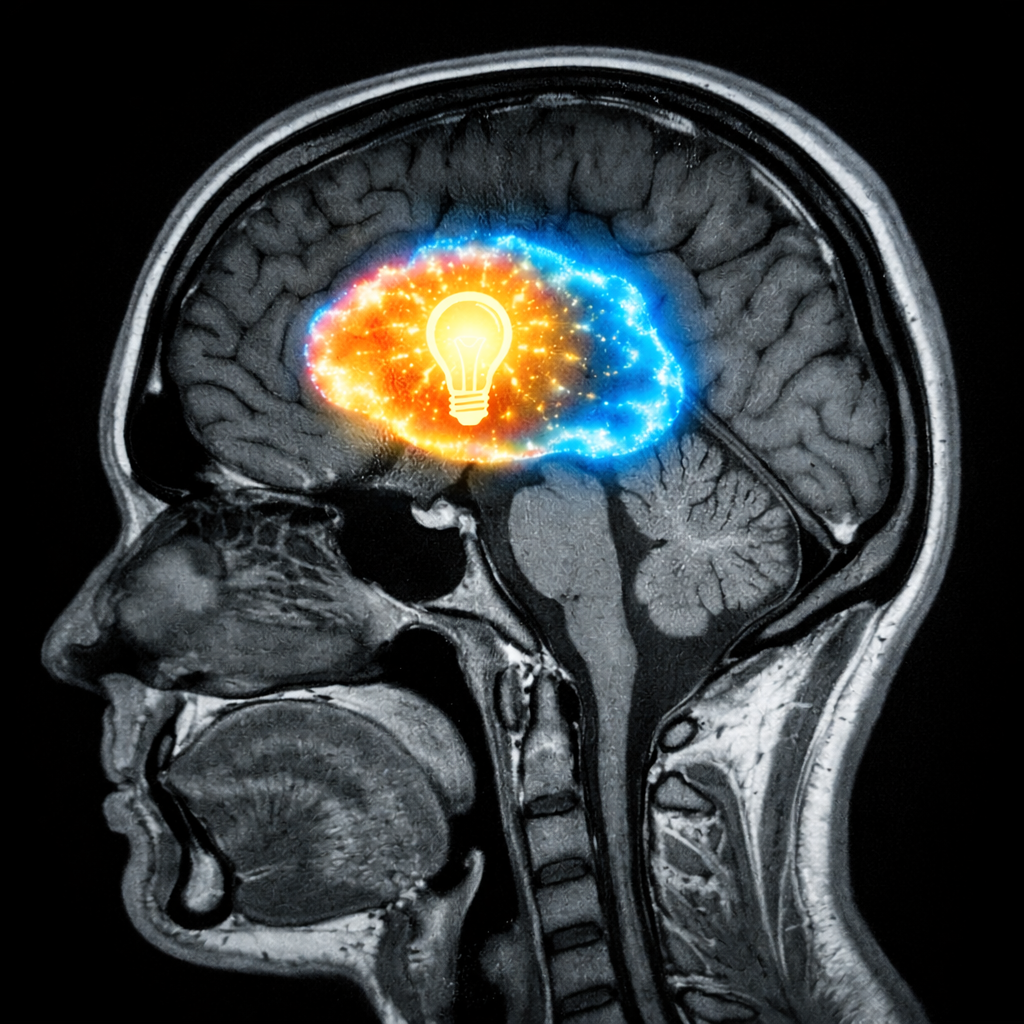
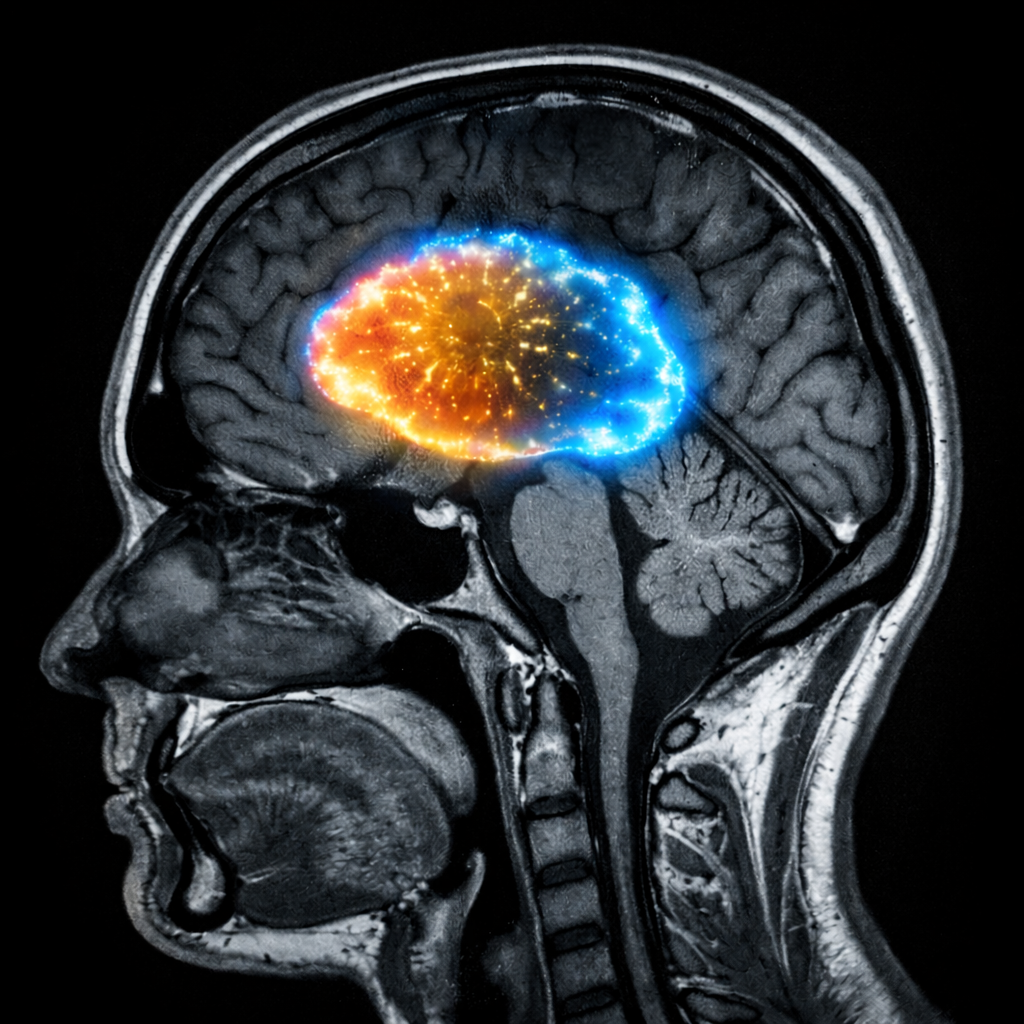
feat: refine website content and visual polish

Changed region(s): [[0.0312, 0.0312, 0.9375, 1.0], [0.6875, 0.1875, 0.7188, 0.2188]]

diff --git a/_sass/_navbar.scss b/_sass/_navbar.scss
@@ -135,8 +135,6 @@
 
     &:hover {
       color: var(--global-hover-color);
-      background: rgba(255, 255, 255, 0.32);
-      box-shadow: inset 0 0 0 1px rgba(0, 150, 199, 0.28);
     }
 
     &:hover::before {

diff --git a/assets/css/main.scss b/assets/css/main.scss
@@ -111,7 +111,7 @@
     padding: 0.45rem 0.7rem;
     font-size: 0.94rem;
     text-align: left;
-    background: rgba(255, 255, 255, 0.16);
+    background: transparent;
   }
 
   .navbar-nav .toggle-container {

diff --git a/_pages/publications.md b/_pages/publications.md
@@ -21,8 +21,8 @@ _styles: |
   }
 
   .pub-tabs-wrap {
-    background: linear-gradient(135deg, rgba(0, 150, 199, 0.1) 0%, rgba(0, 150, 199, 0.03) 100%);
-    border: 1px solid rgba(0, 150, 199, 0.18);
+    background: linear-gradient(135deg, rgba(0, 150, 199, 0.16) 0%, rgba(0, 150, 199, 0.08) 100%);
+    border: 1px solid rgba(0, 150, 199, 0.28);
     border-radius: 20px;
     padding: 0.8rem;
     margin: 1rem 0 1.1rem;
@@ -34,13 +34,14 @@ _styles: |
     font-weight: 700;
     margin: 0 0.3rem;
     color: var(--global-text-color);
-    border: 1px solid transparent;
+    background: rgba(0, 150, 199, 0.12);
+    border: 1px solid rgba(0, 150, 199, 0.24);
     transition: all 0.2s ease;
   }
 
   .pub-tabs-wrap .nav-link:hover {
-    border-color: rgba(0, 150, 199, 0.35);
-    background: rgba(0, 150, 199, 0.08);
+    border-color: rgba(0, 150, 199, 0.5);
+    background: rgba(0, 150, 199, 0.18);
   }
 
   .pub-tabs-wrap .nav-link.active {
@@ -82,6 +83,8 @@ _styles: |
 
 <!-- _pages/publications.md -->
 
+<div class="glass-section pub-page-shell">
+  <div class="glass-section-body">
 <p class="pub-page-note">For a full list, you can visit <a href="https://scholar.google.com/citations?user=tAOr0VwAAAAJ&hl=en" target="_blank" rel="noopener noreferrer">Google Scholar</a> or <a href="https://pubmed.ncbi.nlm.nih.gov/?term=eddy+solomon&sort=date&utm_source=Pubmed" target="_blank" rel="noopener noreferrer">PubMed</a>.</p>
 
 <!-- Bibsearch Feature -->
@@ -109,6 +112,8 @@ _styles: |
     <div class="tab-pane fade" id="peer-pane" role="tabpanel" aria-labelledby="peer-tab">
       {% bibliography --query @inproceedings{*} --group_by year --sort_by year --order descending %}
     </div>
+  </div>
+</div>
   </div>
 </div>
 

diff --git a/_pages/open-source.md b/_pages/open-source.md
@@ -10,8 +10,8 @@ fluid: true
 
 <style>
   .open-source-tabs-wrap {
-    background: linear-gradient(135deg, rgba(0, 150, 199, 0.1) 0%, rgba(0, 150, 199, 0.03) 100%);
-    border: 1px solid rgba(0, 150, 199, 0.18);
+    background: linear-gradient(135deg, rgba(0, 150, 199, 0.16) 0%, rgba(0, 150, 199, 0.08) 100%);
+    border: 1px solid rgba(0, 150, 199, 0.28);
     border-radius: 20px;
     padding: 0.8rem;
     margin-top: -0.5rem;
@@ -24,13 +24,14 @@ fluid: true
     font-weight: 700;
     margin: 0 0.3rem;
     color: var(--global-text-color);
-    border: 1px solid transparent;
+    background: rgba(0, 150, 199, 0.12);
+    border: 1px solid rgba(0, 150, 199, 0.24);
     transition: all 0.2s ease;
   }
 
   .open-source-tabs-wrap .nav-link:hover {
-    border-color: rgba(0, 150, 199, 0.35);
-    background: rgba(0, 150, 199, 0.08);
+    border-color: rgba(0, 150, 199, 0.5);
+    background: rgba(0, 150, 199, 0.18);
   }
 
   .open-source-tabs-wrap .nav-link.active {

diff --git a/_pages/home.md b/_pages/home.md
@@ -209,7 +209,7 @@ fluid: true
         <div style="position: relative; z-index: 2;">
           <h2 style="font-weight: 800; font-size: 2.5rem; color: white; margin-bottom: 1.5rem; text-shadow: 0 2px 10px rgba(0,0,0,0.5);">Intreseted to join us?</h2>
           <p style="font-size: 1.25rem; max-width: 800px; margin: 0 auto; color: #f0f8ff; text-shadow: 0 1px 5px rgba(0,0,0,0.5);">
-            We are always looking for motivated students and postdocs to join our team. If you are passionate about medical imaging and AI, we'd love to hear from you.
+            We are always looking for motivated students and postdocs to join our team. If you are passionate about medical imaging and AI, let's connect.
           </p>
         </div>
       </section>